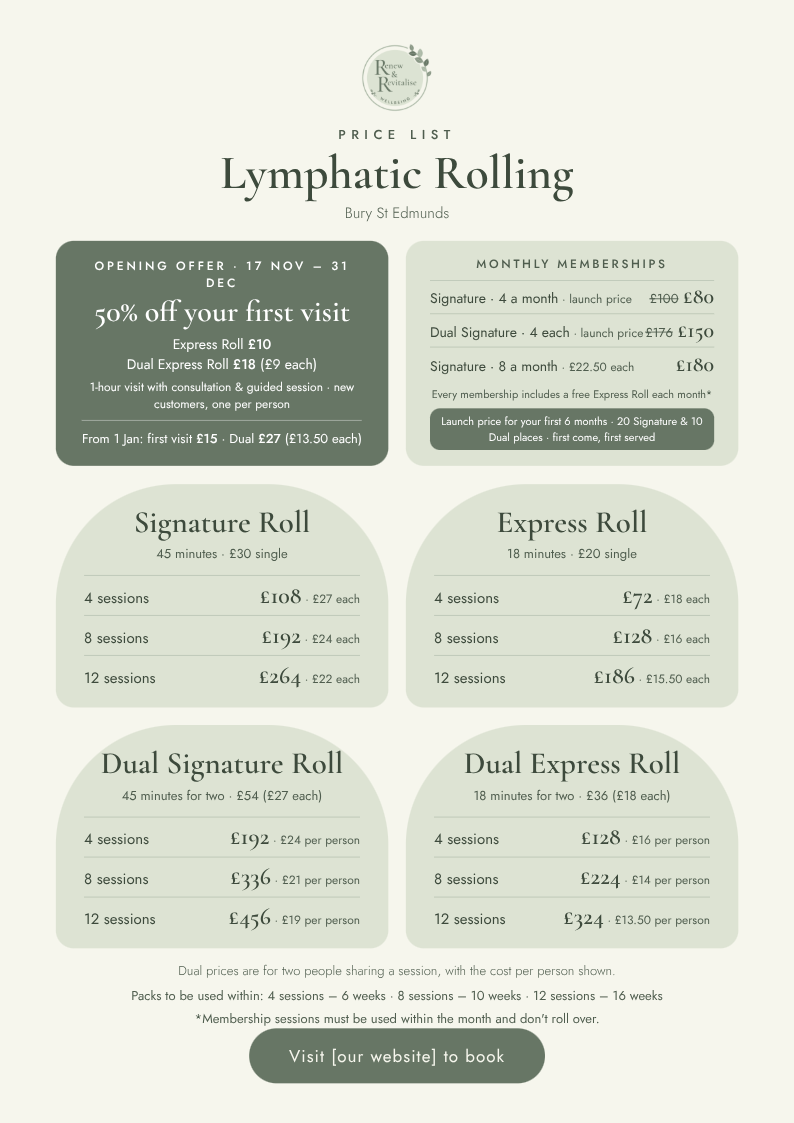
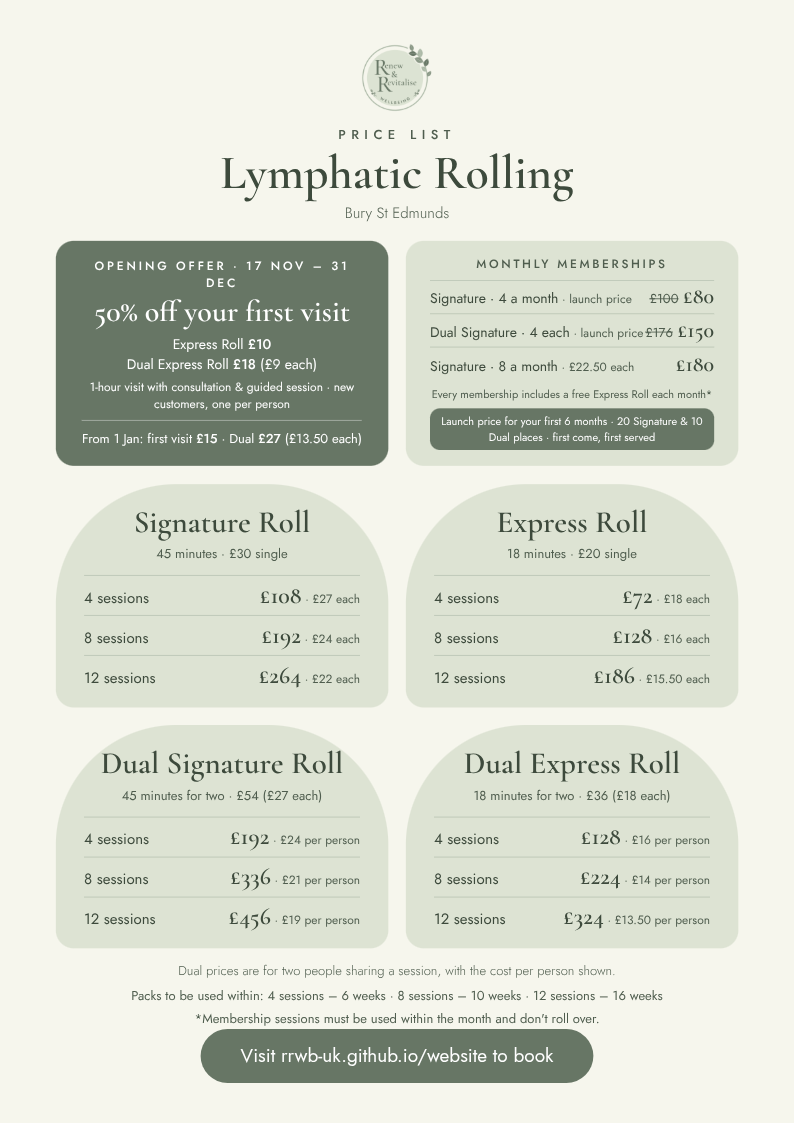
Add website address to price list booking button

Changed region(s): [[0.2418, 0.9038, 0.7557, 0.9662]]

diff --git a/prices.html b/prices.html
@@ -69,7 +69,7 @@
     <section class="section-alt">
       <div class="container narrow">
         <h2 class="center">Full price list</h2>
-        <img class="price-list" src="images/Price_List_A4.png" alt="Renew &amp; Revitalise price list" width="794" height="1123" loading="lazy">
+        <img class="price-list" src="images/Price_List_A4.png?v=2" alt="Renew &amp; Revitalise price list" width="794" height="1123" loading="lazy">
       </div>
     </section>
 
